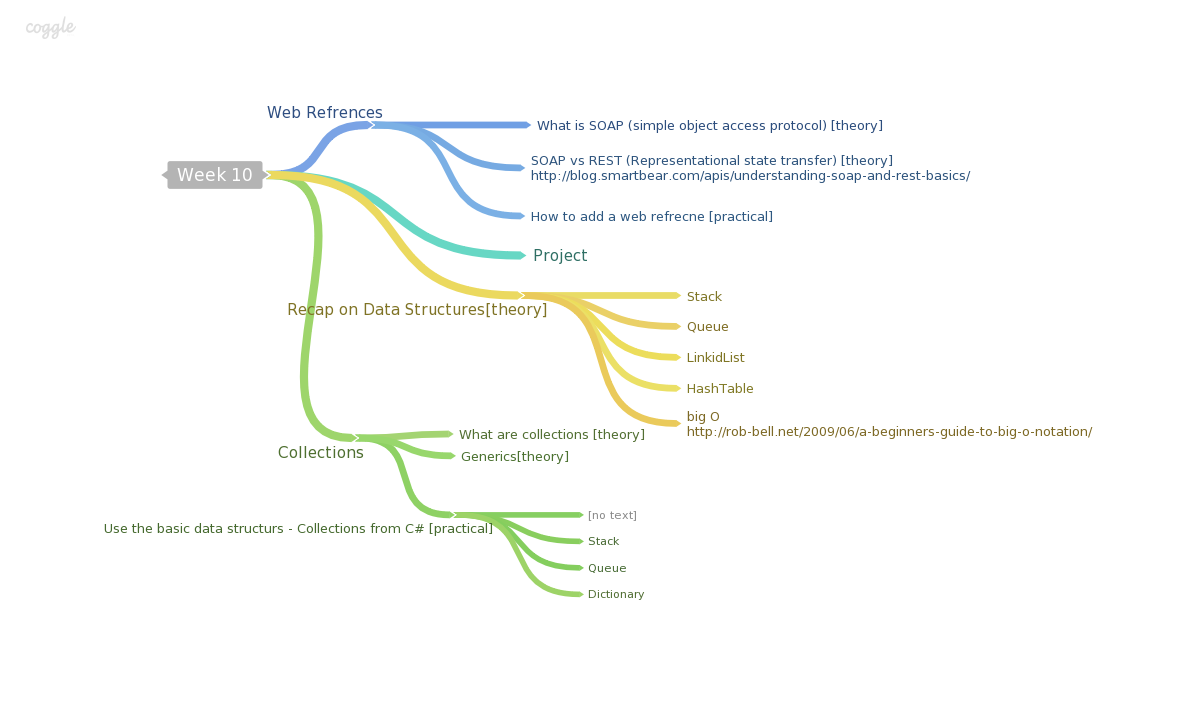
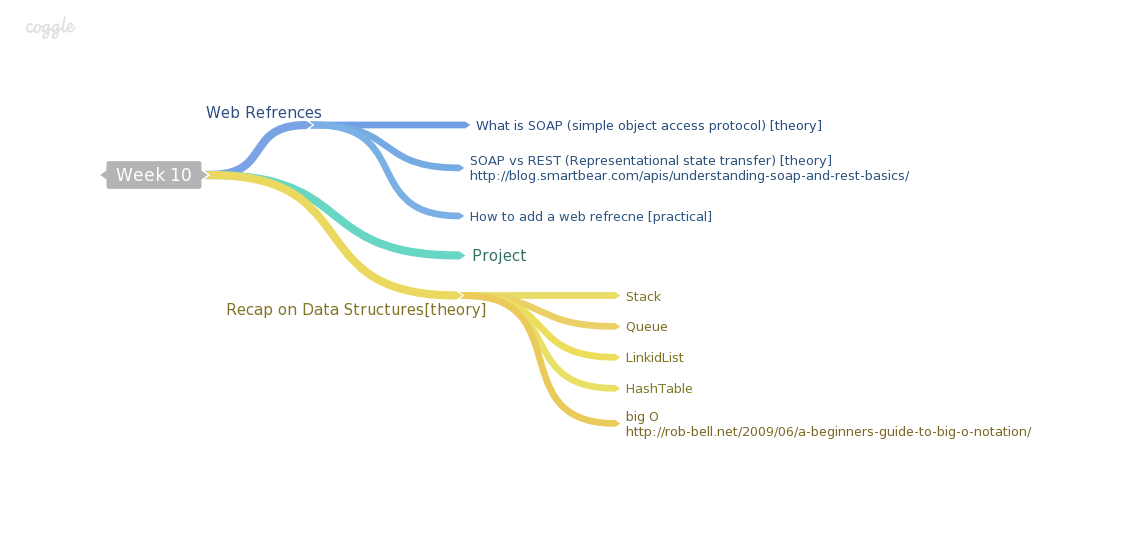
added images and week 11

Changed region(s): [[0.0922, 0.1557, 0.9219, 0.8407], [0.0922, 0.7161, 0.2151, 0.7784], [0.0307, 0.0311, 0.0615, 0.0623]]

diff --git a/week10/README.md b/week10/README.md
@@ -20,6 +20,20 @@
 
 - [**Extra Reading** SOAP vs REST.][3]
 
+![alt text](https://raw.github.com/TheNightPhoenix/AdvancedProgramming/master/week10/add_web_refrence_01.PNG "Adding a webservice")
+
+![alt text](https://raw.github.com/TheNightPhoenix/AdvancedProgramming/master/week10/add_web_refrence_02.PNG "Adding a webservice")
+
+![alt text](https://raw.github.com/TheNightPhoenix/AdvancedProgramming/master/week10/add_web_refrence_03.PNG "Adding a webservice")
+
+![alt text](https://raw.github.com/TheNightPhoenix/AdvancedProgramming/master/week10/add_web_refrence_04.PNG "Adding a webservice")
+
+![alt text](https://raw.github.com/TheNightPhoenix/AdvancedProgramming/master/week10/add_web_refrence_05.PNG "Adding a webservice")
+
+![alt text](https://raw.github.com/TheNightPhoenix/AdvancedProgramming/master/week10/add_web_refrence_06.PNG "Adding a webservice")
+
+
+
 
 
 ##Recap on Data Structures[theory]
@@ -29,15 +43,6 @@
 - HashTable
 - [**Extra Reading** big O notation.][5]
 
-
-##Collections
-- What are collections [theory]
-- Generics[theory]
-- Use the basic data structurs - Collections from C# [practical]
-	- List
-	- Stack
-	- Queue
-	- Dictionary
 
 
 ![alt text](https://raw.github.com/TheNightPhoenix/AdvancedProgramming/master/week10/map.png "Class Mind Map")

diff --git a/week11/README.md b/week11/README.md
@@ -1,0 +1,29 @@
+#Week 11
+
+#### [Please Submit Feedback][1]
+
+
+##Recap on Data Structures[theory]
+- Stack
+- Queue
+- LinkidList
+- HashTable
+- [**Extra Reading** big O notation.][2]
+
+
+##Collections
+- What are collections [theory]
+- Generics[theory]
+- Use the basic data structurs - Collections from C# [practical]
+	- List
+	- Stack
+	- Queue
+	- Dictionary
+
+
+![alt text](https://raw.github.com/TheNightPhoenix/AdvancedProgramming/master/week11/map.png "Class Mind Map")
+
+
+[1]:https://docs.google.com/forms/d/1-oPlwu_OfXpBWdaN5_UEjuR3cY6MvtqJj_6AtgvwSWc
+
+[2]:http://rob-bell.net/2009/06/a-beginners-guide-to-big-o-notation/
